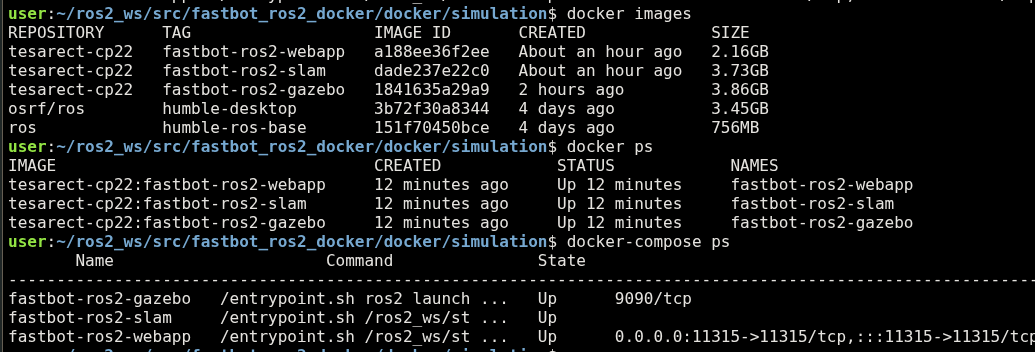
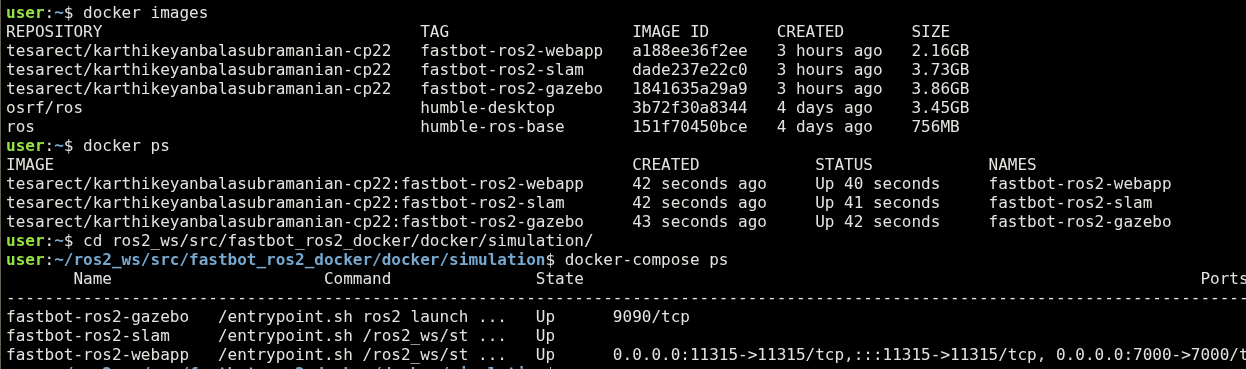
remote images tag update

Changed region(s): [[0.0, 0.0, 1.0, 1.0], [0.4947, 0.9375, 1.0, 1.0]]

diff --git a/docker/Instructions.md b/docker/Instructions.md
@@ -52,7 +52,7 @@ docker-compose -f docker-compose.yaml up -d
 # start individual container
 docker-compose -f docker-compose.yaml up -d gazebo
 ```
-![running docker infos](docs/images/00-docker-infos.png)
+![running docker infos](/docs/images/00-docker-infos.png)
 ## Visualize 
 #### Through Container
 works on both local and from TheConstruct
@@ -80,6 +80,8 @@ source ~/ros2_ws/install/setup.bash
 ros2 topic list
 ```
 
+[ Check [expected result section](#expected-topics-when-fastbot-container-not-running) ]
+
 ## Maps
 By default cartographer node will be running.
 ### Create a new map
@@ -99,15 +101,15 @@ First get [connected to webpage](#connect-from-theconstruct)
 
 By now you should be seeing this by default(except rviz which you need to fire it up manually)
 
-![gazebo and Rviz](docs/images/docs/images/01-sim-gazebo-rviz-from-construct.png)
+![gazebo and Rviz](/docs/images/01-sim-gazebo-rviz-from-construct.png)
 
 After entering the webpage url you should be able to see this
 
-![webpage control](docs/images/02-webapp-sim-gazebo-from-construct.png)
+![webpage control](/docs/images/02-webapp-sim-gazebo-from-construct.png)
 
-You can update the map my moving around through the `Joystick` or `w``a``s``d` keys from the webpage
+You can update the map my moving around through the `Joystick` or `w` `a` `s` `d` keys from the webpage
 
-![Updaing map](docs/images/03-update-new-map-through-webapp.png)
+![Updaing map](/docs/images/03-update-new-map-through-webapp.png)
 
 ### Saving a map
 there is no save option from the web page directly, so back in the construct terminal execute the following
@@ -183,9 +185,9 @@ SLAM_MODE=localization MAP_NAME=room_map \
   docker-compose -f docker-compose.yaml up -d
 ```
 
-![gazebo-Rviz with existing map](docs/images/04-load-existing-map.png)
+![gazebo-Rviz with existing map](/docs/images/04-load-existing-map.png)
 
-![webpage reflecting the same](docs/images/05-existing-map-on-webpage.png)
+![webpage reflecting the same](/docs/images/05-existing-map-on-webpage.png)
 
 ### Set `initialpose`
 > [!IMPORTANT:] Default maps will run with inital pose automaticaly if defined under `/ros2_ws/map_poses.yaml`(inside fastbot-ros2-slam image).If its not defined, please do the `2D pose estimate` from `rviz`.
@@ -207,9 +209,19 @@ These are the images thats supposed to be running mandatorly for bringing up the
   - `fastbot-ros2-slam-real`  (runs cartographer for mapping by default)
   - `fastbot-remote`          (an optional image thats helps to connect to fastbot remotely)
 
+> [🚨 Important] :
+>
+> When you login (immediatly after boot), only `fastbot-ros2-real` container will be running. So you can list and view the topics.
+> 
+> `slam-real` container will **NOT** be running after boot.
+
+![ add image ]()
+
 ### Compose types:
+> [Note] switch to respective directory `cd ~/ros2_ws/src/docker/real` before bringing up any 
+
   - local
-    - robot -> `fastbot-ros2-real` (Default running service on fastbot during boot)
+    - robot -> `fastbot-ros2-real` **(Default running service on fastbot during boot)**
       ```bash
       docker-compose -f docker-compose.yaml up -d robot
       ```
@@ -228,55 +240,16 @@ These are the images thats supposed to be running mandatorly for bringing up the
       ```
 
 
+# Connect to Fastbot Locally
+Connet to your fastbot over `ssh`. If you are about to open graphical tool(Rviz or other ros rqt tools) better start ssh like this `ssh fastbot@192.168.1.100 -C -X` or  `ssh fastbot@192.168.1.100 -C -Y`
 
-## Connect to Fastbot Locally
-### From host (Pi)
-Make sure the `real` and `slam-real` are up and running.
-No additional changes needed. fastbot nodes are visible directly on the host.
-If its not visible set the env variables and try (follow the below steps)
-```bash
-# On Pi host — match the container's DDS config
-export CYCLONEDDS_URI=file:///home/fastbot/ros2_ws/src/docker/real/config/cyclonedds-husarnet.xml
-export RMW_IMPLEMENTATION=rmw_cyclonedds_cpp
-export ROS_DOMAIN_ID=0
-
-ros2 topic list
-
-ros2 daemon stop #(optional if topics still not visible, then procede with topic listing)
-```
-Without setting CYCLONEDDS_URI on the host, it uses default multicast while containers use Husarnet unicast — they're on different DDS networks and can't see each other.
-
-So when running husarnet compose, set the same CYCLONEDDS_URI on the Pi host too — then both host and external machine see all topics.
-
-### From Container
-[TODO]
-
-### Visualize or View Topics
-#### from fastbot / host(Pi)
-> [NOTE] : This preperation works for both local and remote(husarnet) setup
-The running container `real` and `slam-real` are base images without gui. So you will be forced to use local host(Pi/fastbot) to visualize. This same configuraiton is also used to connect to fastbot locally or as a host while remote connection is established, so make sure you first export these env variables on the fastbot(Pi) as host.
-
-#### from Container
-Check topics directly on the container
-```bash
-docker exec -it fastbot-ros2-real bash -c "source /opt/ros/humble/setup.bash &&
-  source /ros2_ws/install/setup.bash && 
-  ros2 topic list"
-```
-#### from host
-```bash
-ros2 topic list
-```
-
-
-## Connect to Fastbot Remotely
 ### pre-req
-By default the fastbot will be running just the essential(camera, lidar and serial motor drivers). To establish a remote connection, bring the default running service down first
+By default the fastbot will be running just the essential(camera, lidar and serial motor drivers). To start **`slam-real`** or establish a remote connection, bring the default running service down first
 
 ```bash
 sudo systemctl stop fastbot.service
 ```
-> [!WARNING]: To avoid stale containers its better to bring container down completely. Because the `fastbot.service` just `stop`'s the container and does not `down`'s the container completely, so that during shutdown, `<container> stop` is quicker that `<container> down`. Recomended to follow the below steps.
+> [⚠ WARNING]: To avoid stale containers its better to bring container down completely. Because the `fastbot.service` just `stop`'s the container and does not `down`'s the container completely, so that during shutdown, `<container> stop` is quicker that `<container> down`. Recomended to follow the below steps.
 ```bash
 cd docker/real # make sure you switch to docker files path
 # list out running containers
@@ -284,6 +257,101 @@ docker-compose ps
 #bring the default down
 docker-compose -f docker-compose.yaml down
 ```
+[ back to [Connect to Fastbot Remotely](#connect-to-fastbot-remotely) ]
+
+### Through host (Pi)
+Make sure the `real` and `slam-real` are up and running _(after boot it will be running only `robot` in `fastbot.service` automatically)_.
+
+No additional changes needed, fastbot nodes will be visible directly on the host.
+```bash
+ros2 topic list # directly on pi / host
+```
+
+If its still not visible set the env variables and try (follow the below steps)
+```bash
+# On Pi host — match the container's env variable
+export ROS_DOMAIN_ID=0
+
+ros2 topic list
+
+ros2 daemon stop #(optional if topics still not visible, then procede with topic listing)
+export RMW_IMPLEMENTATION=rmw_cyclonedds_cpp # if still not working try this and repeat the rest
+```
+
+
+### Through Container
+```bash
+docker exec -it fastbot-ros2-real bash -c "source /opt/ros/humble/setup.bash &&
+  source /ros2_ws/install/setup.bash && 
+  ros2 topic list"
+```
+[ Check [expected output](#expected-topics-when-fastbot-container-not-running) ]
+
+## Visualize
+#### from fastbot / host(Pi)
+> [NOTE] : The running container **`real` and `slam-real` are base images without gui**. So you will be forced to use local host(Pi/fastbot) to visualize. This same configuraiton is also used to connect to fastbot locally or as a host while remote connection is established, so make sure you first export these env variables on the fastbot(Pi) as host.
+
+```bash
+# Make sure `real` and `slam-real` running
+rviz2 -d ~/ros2_ws/src/fastbot_slam/rviz/default.rviz 
+```
+![ add image ]()
+
+## Maps
+### Create a new Map
+Make sure `real` and `slam-real` container are running on the Fastbot.
+#### Through host / container on host
+The `real` and `slam-real` image are not full desktop or gui based. 
+Instead you can run `rviz2` on the fastbot(host) directly while `real` and `slam-real` are running. Look at the section visualize through host, [follow this](#visualize-from-fastbot--hostpi). Once you can see the topics of fastbot, you can directly fire up `rviz2` on the host (if installed) to visualize.
+
+```bash
+# bring up rviz saved config from the repo in not running
+rviz2 -d ~/ros2_ws/src/fastbot_slam/rviz/default.rviz
+
+# If you can view topics directly from host
+ros2 run teleop_twist_keyboard teleop_twist_keyboard   --ros-args --remap cmd_vel:=fastbot/cmd_vel
+# Or
+# If you cannot view topics from host , run the same through container
+docker exec -it fastbot-ros2-slam-real bash -c \
+  "source /ros2_ws/install/setup.bash && \
+  ros2 run teleop_twist_keyboard teleop_twist_keyboard \
+  --ros-args --remap cmd_vel:=fastbot/cmd_vel"
+```
+
+<!-- #### Through Remote
+And make sure `remote` container is running on the remote machine.
+Check if topics are visible and fire up rviz.
+```bash
+# Inside remote container
+docker exec -it fastbot-remote bash -c \
+  "source /opt/ros/humble/setup.bash && \
+   source /ros2_ws/install/setup.bash 2>/dev/null || true && \
+   rviz2 -d /opt/ros/humble/share/nav2_bringup/rviz/nav2_default_view.rviz"
+``` -->
+## Save map to volume space
+```bash
+docker exec -it fastbot-ros2-slam-real bash -c \
+"source /opt/ros/humble/setup.bash &&
+ source /ros2_ws/install/setup.bash &&
+ ros2 run nav2_map_server map_saver_cli \
+  -f /maps/my_map \
+  --ros-args -p save_map_timeout:=5.0"
+```
+
+## Load saved map from volume space
+```bash
+# Quick check to list maps under volume space
+docker exec -it fastbot-ros2-slam bash -c \
+"ls -la /maps/"
+
+SLAM_MODE=localization MAP_NAME=my_map MAP_FILE=/maps/my_map.yaml \
+  docker-compose up -d
+```
+
+# Connect to Fastbot Remotely (Husarnet)
+### pre-req
+Ref [earlier Pre-req](#pre-req-1)
+
 ### Bring up the Remote connect on the Fastbot(Pi)
 The connection is established through Husarnet and all necessary setups are done through  `docker-compose.husarnet.yaml`
 
@@ -332,6 +400,11 @@ If not visible, copy the `cyclonedds-husarnet.xml` from `docker/real/condif` and
 > [!NOTE]: your device need to be added to husarnet dashboard for this step.
 
 ```bash
+______
+# On Pi host — match the container's DDS config
+export CYCLONEDDS_URI=file:///home/fastbot/ros2_ws/src/docker/real/config/cyclonedds-husarnet.xml
+export RMW_IMPLEMENTATION=rmw_cyclonedds_cpp
+
 # Set ROS environment
 export RMW_IMPLEMENTATION=rmw_cyclonedds_cpp  # Installation required
 export ROS_DOMAIN_ID=0
@@ -346,9 +419,11 @@ ros2 topic list
 # Run RViz
 rviz2
 ```
+Without setting CYCLONEDDS_URI on the host, it uses default multicast while containers use Husarnet unicast — they're on different DDS networks and can't see each other.
 
+So when running husarnet compose, set the same CYCLONEDDS_URI on the Pi host too — then both host and external machine see all topics.
 
-### Maps
+## Maps
 #### Create a new Map
 Make sure `real` and `slam-real` container are running on the Fastbot.
 #### Through host / container on host
@@ -359,22 +434,12 @@ Instead you can run `rviz2` on the fastbot(host) directly while `real` and `slam
 # bring up rviz saved config from the repo
 rviz2 -d ~/ros2_ws/src/fastbot_slam/rviz/default.rviz 
 
-docker exec -it fastbot-ros2-slam-real bash -c \
+docker exec -it fastbot-ros2-real bash -c \
   "source /ros2_ws/install/setup.bash && \
   ros2 run teleop_twist_keyboard teleop_twist_keyboard \
   --ros-args --remap cmd_vel:=fastbot/cmd_vel"
 ```
 
-#### Through Remote
-And make sure `remote` container is running on the remote machine.
-Check if topics are visible and fire up rviz.
-```bash
-# Inside remote container
-docker exec -it fastbot-remote bash -c \
-  "source /opt/ros/humble/setup.bash && \
-   source /ros2_ws/install/setup.bash 2>/dev/null || true && \
-   rviz2 -d /opt/ros/humble/share/nav2_bringup/rviz/nav2_default_view.rviz"
-```
 # Connect to Webpage
 ## Connect from TheConstruct
 Make sure `fastbot-ros2-webapp` is running and get the address from the logs.
@@ -384,9 +449,9 @@ docker logs fastbot-ros2-webapp
 webpage_address   # to get public url
 rosbridge_address # to connect to our running ros nodes 
 ```
-![public url from theConstruct output](docs/images/07-public-url-through-construct.png)
+![public url from theConstruct output](/docs/images/07-public-url-through-construct.png)
 
-[ [back to `Update a map throug Webapp`](#update-a-map-throug-rviz-teleop) ]
+[ back to [Update a map throug Webapp](#update-a-map-throug-rviz-teleop) ]
 ## Connect from Remote Machine
 [TODO] need to move these contents here
 
@@ -518,3 +583,6 @@ $ ros2 topic list
 /tf_static
 /trajectory_node_list
 ```
+[ back to [viewing topics](#view-topics) ]
+
+[ back to [Remote connection](#connect-to-fastbot-locally) ]
